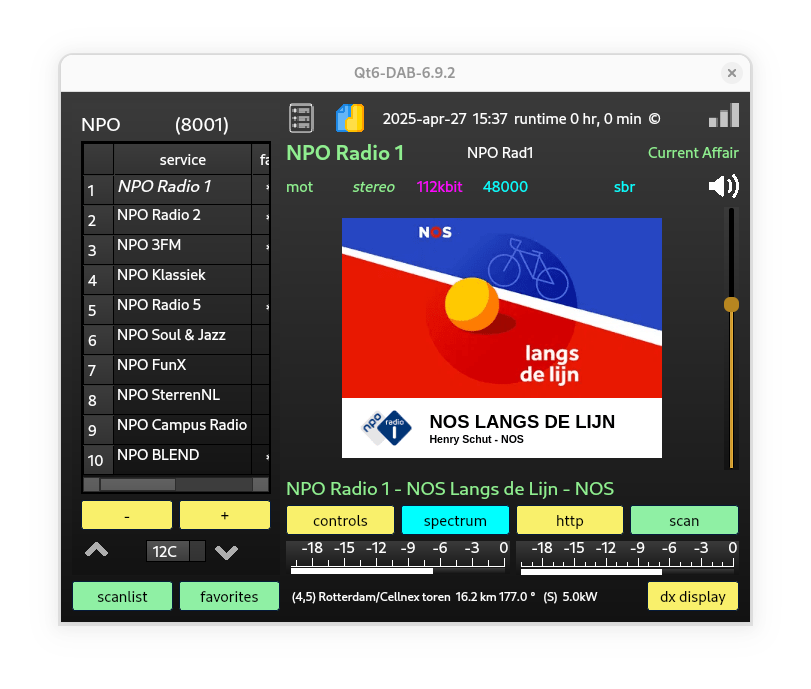
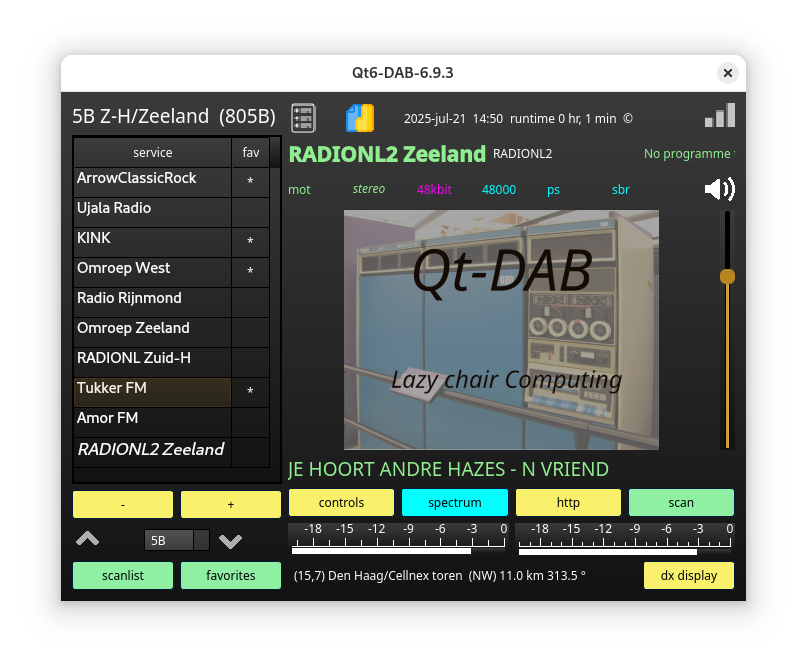
updated pictures

diff --git a/sources/devices/spy-server-8/spyserver-client-8.cpp b/sources/devices/spy-server-8/spyserver-client-8.cpp
@@ -75,6 +75,8 @@
 	settings. batchSize		= 4096;
 	settings. sample_bits		= 16;
 //
+	for (int i = 0; i < 256; i ++)
+	   convTable [i] = (-128.0 + i) / 128.0;
 	connect (spyServer_connect, &QPushButton::clicked,
                  this, &spyServer_client_8::wantConnect);
 #if QT_VERSION >= QT_VERSION_CHECK(6, 0, 2)
@@ -344,25 +346,6 @@ void    spyServer_client_8::handle_autogain       (int d) {
 void	spyServer_client_8::connect_on () {
 	onConnect. store (true);
 }
-
-static 
-float convTable [] = {
- -128 / 128.0 , -127 / 128.0 , -126 / 128.0 , -125 / 128.0 , -124 / 128.0 , -123 / 128.0 , -122 / 128.0 , -121 / 128.0 , -120 / 128.0 , -119 / 128.0 , -118 / 128.0 , -117 / 128.0 , -116 / 128.0 , -115 / 128.0 , -114 / 128.0 , -113 / 128.0 
-, -112 / 128.0 , -111 / 128.0 , -110 / 128.0 , -109 / 128.0 , -108 / 128.0 , -107 / 128.0 , -106 / 128.0 , -105 / 128.0 , -104 / 128.0 , -103 / 128.0 , -102 / 128.0 , -101 / 128.0 , -100 / 128.0 , -99 / 128.0 , -98 / 128.0 , -97 / 128.0 
-, -96 / 128.0 , -95 / 128.0 , -94 / 128.0 , -93 / 128.0 , -92 / 128.0 , -91 / 128.0 , -90 / 128.0 , -89 / 128.0 , -88 / 128.0 , -87 / 128.0 , -86 / 128.0 , -85 / 128.0 , -84 / 128.0 , -83 / 128.0 , -82 / 128.0 , -81 / 128.0 
-, -80 / 128.0 , -79 / 128.0 , -78 / 128.0 , -77 / 128.0 , -76 / 128.0 , -75 / 128.0 , -74 / 128.0 , -73 / 128.0 , -72 / 128.0 , -71 / 128.0 , -70 / 128.0 , -69 / 128.0 , -68 / 128.0 , -67 / 128.0 , -66 / 128.0 , -65 / 128.0 
-, -64 / 128.0 , -63 / 128.0 , -62 / 128.0 , -61 / 128.0 , -60 / 128.0 , -59 / 128.0 , -58 / 128.0 , -57 / 128.0 , -56 / 128.0 , -55 / 128.0 , -54 / 128.0 , -53 / 128.0 , -52 / 128.0 , -51 / 128.0 , -50 / 128.0 , -49 / 128.0 
-, -48 / 128.0 , -47 / 128.0 , -46 / 128.0 , -45 / 128.0 , -44 / 128.0 , -43 / 128.0 , -42 / 128.0 , -41 / 128.0 , -40 / 128.0 , -39 / 128.0 , -38 / 128.0 , -37 / 128.0 , -36 / 128.0 , -35 / 128.0 , -34 / 128.0 , -33 / 128.0 
-, -32 / 128.0 , -31 / 128.0 , -30 / 128.0 , -29 / 128.0 , -28 / 128.0 , -27 / 128.0 , -26 / 128.0 , -25 / 128.0 , -24 / 128.0 , -23 / 128.0 , -22 / 128.0 , -21 / 128.0 , -20 / 128.0 , -19 / 128.0 , -18 / 128.0 , -17 / 128.0 
-, -16 / 128.0 , -15 / 128.0 , -14 / 128.0 , -13 / 128.0 , -12 / 128.0 , -11 / 128.0 , -10 / 128.0 , -9 / 128.0 , -8 / 128.0 , -7 / 128.0 , -6 / 128.0 , -5 / 128.0 , -4 / 128.0 , -3 / 128.0 , -2 / 128.0 , -1 / 128.0 
-, 0 / 128.0 , 1 / 128.0 , 2 / 128.0 , 3 / 128.0 , 4 / 128.0 , 5 / 128.0 , 6 / 128.0 , 7 / 128.0 , 8 / 128.0 , 9 / 128.0 , 10 / 128.0 , 11 / 128.0 , 12 / 128.0 , 13 / 128.0 , 14 / 128.0 , 15 / 128.0 
-, 16 / 128.0 , 17 / 128.0 , 18 / 128.0 , 19 / 128.0 , 20 / 128.0 , 21 / 128.0 , 22 / 128.0 , 23 / 128.0 , 24 / 128.0 , 25 / 128.0 , 26 / 128.0 , 27 / 128.0 , 28 / 128.0 , 29 / 128.0 , 30 / 128.0 , 31 / 128.0 
-, 32 / 128.0 , 33 / 128.0 , 34 / 128.0 , 35 / 128.0 , 36 / 128.0 , 37 / 128.0 , 38 / 128.0 , 39 / 128.0 , 40 / 128.0 , 41 / 128.0 , 42 / 128.0 , 43 / 128.0 , 44 / 128.0 , 45 / 128.0 , 46 / 128.0 , 47 / 128.0 
-, 48 / 128.0 , 49 / 128.0 , 50 / 128.0 , 51 / 128.0 , 52 / 128.0 , 53 / 128.0 , 54 / 128.0 , 55 / 128.0 , 56 / 128.0 , 57 / 128.0 , 58 / 128.0 , 59 / 128.0 , 60 / 128.0 , 61 / 128.0 , 62 / 128.0 , 63 / 128.0 
-, 64 / 128.0 , 65 / 128.0 , 66 / 128.0 , 67 / 128.0 , 68 / 128.0 , 69 / 128.0 , 70 / 128.0 , 71 / 128.0 , 72 / 128.0 , 73 / 128.0 , 74 / 128.0 , 75 / 128.0 , 76 / 128.0 , 77 / 128.0 , 78 / 128.0 , 79 / 128.0 
-, 80 / 128.0 , 81 / 128.0 , 82 / 128.0 , 83 / 128.0 , 84 / 128.0 , 85 / 128.0 , 86 / 128.0 , 87 / 128.0 , 88 / 128.0 , 89 / 128.0 , 90 / 128.0 , 91 / 128.0 , 92 / 128.0 , 93 / 128.0 , 94 / 128.0 , 95 / 128.0 
-, 96 / 128.0 , 97 / 128.0 , 98 / 128.0 , 99 / 128.0 , 100 / 128.0 , 101 / 128.0 , 102 / 128.0 , 103 / 128.0 , 104 / 128.0 , 105 / 128.0 , 106 / 128.0 , 107 / 128.0 , 108 / 128.0 , 109 / 128.0 , 110 / 128.0 , 111 / 128.0 
-, 112 / 128.0 , 113 / 128.0 , 114 / 128.0 , 115 / 128.0 , 116 / 128.0 , 117 / 128.0 , 118 / 128.0 , 119 / 128.0 , 120 / 128.0 , 121 / 128.0 , 122 / 128.0 , 123 / 128.0 , 124 / 128.0 , 125 / 128.0 , 126 / 128.0 , 127 / 128.0 };
 
 void	spyServer_client_8::data_ready	() {
 uint8_t buffer_8 [settings. batchSize * 2];

diff --git a/sources/devices/rtlsdr-handler-linux/rtlsdr-handler.cpp b/sources/devices/rtlsdr-handler-linux/rtlsdr-handler.cpp
@@ -43,25 +43,6 @@
 #define	GETPROCADDRESS	dlsym
 #endif
 
-static 
-float convTable [] = {
- -128 / 128.0 , -127 / 128.0 , -126 / 128.0 , -125 / 128.0 , -124 / 128.0 , -123 / 128.0 , -122 / 128.0 , -121 / 128.0 , -120 / 128.0 , -119 / 128.0 , -118 / 128.0 , -117 / 128.0 , -116 / 128.0 , -115 / 128.0 , -114 / 128.0 , -113 / 128.0 
-, -112 / 128.0 , -111 / 128.0 , -110 / 128.0 , -109 / 128.0 , -108 / 128.0 , -107 / 128.0 , -106 / 128.0 , -105 / 128.0 , -104 / 128.0 , -103 / 128.0 , -102 / 128.0 , -101 / 128.0 , -100 / 128.0 , -99 / 128.0 , -98 / 128.0 , -97 / 128.0 
-, -96 / 128.0 , -95 / 128.0 , -94 / 128.0 , -93 / 128.0 , -92 / 128.0 , -91 / 128.0 , -90 / 128.0 , -89 / 128.0 , -88 / 128.0 , -87 / 128.0 , -86 / 128.0 , -85 / 128.0 , -84 / 128.0 , -83 / 128.0 , -82 / 128.0 , -81 / 128.0 
-, -80 / 128.0 , -79 / 128.0 , -78 / 128.0 , -77 / 128.0 , -76 / 128.0 , -75 / 128.0 , -74 / 128.0 , -73 / 128.0 , -72 / 128.0 , -71 / 128.0 , -70 / 128.0 , -69 / 128.0 , -68 / 128.0 , -67 / 128.0 , -66 / 128.0 , -65 / 128.0 
-, -64 / 128.0 , -63 / 128.0 , -62 / 128.0 , -61 / 128.0 , -60 / 128.0 , -59 / 128.0 , -58 / 128.0 , -57 / 128.0 , -56 / 128.0 , -55 / 128.0 , -54 / 128.0 , -53 / 128.0 , -52 / 128.0 , -51 / 128.0 , -50 / 128.0 , -49 / 128.0 
-, -48 / 128.0 , -47 / 128.0 , -46 / 128.0 , -45 / 128.0 , -44 / 128.0 , -43 / 128.0 , -42 / 128.0 , -41 / 128.0 , -40 / 128.0 , -39 / 128.0 , -38 / 128.0 , -37 / 128.0 , -36 / 128.0 , -35 / 128.0 , -34 / 128.0 , -33 / 128.0 
-, -32 / 128.0 , -31 / 128.0 , -30 / 128.0 , -29 / 128.0 , -28 / 128.0 , -27 / 128.0 , -26 / 128.0 , -25 / 128.0 , -24 / 128.0 , -23 / 128.0 , -22 / 128.0 , -21 / 128.0 , -20 / 128.0 , -19 / 128.0 , -18 / 128.0 , -17 / 128.0 
-, -16 / 128.0 , -15 / 128.0 , -14 / 128.0 , -13 / 128.0 , -12 / 128.0 , -11 / 128.0 , -10 / 128.0 , -9 / 128.0 , -8 / 128.0 , -7 / 128.0 , -6 / 128.0 , -5 / 128.0 , -4 / 128.0 , -3 / 128.0 , -2 / 128.0 , -1 / 128.0 
-, 0 / 128.0 , 1 / 128.0 , 2 / 128.0 , 3 / 128.0 , 4 / 128.0 , 5 / 128.0 , 6 / 128.0 , 7 / 128.0 , 8 / 128.0 , 9 / 128.0 , 10 / 128.0 , 11 / 128.0 , 12 / 128.0 , 13 / 128.0 , 14 / 128.0 , 15 / 128.0 
-, 16 / 128.0 , 17 / 128.0 , 18 / 128.0 , 19 / 128.0 , 20 / 128.0 , 21 / 128.0 , 22 / 128.0 , 23 / 128.0 , 24 / 128.0 , 25 / 128.0 , 26 / 128.0 , 27 / 128.0 , 28 / 128.0 , 29 / 128.0 , 30 / 128.0 , 31 / 128.0 
-, 32 / 128.0 , 33 / 128.0 , 34 / 128.0 , 35 / 128.0 , 36 / 128.0 , 37 / 128.0 , 38 / 128.0 , 39 / 128.0 , 40 / 128.0 , 41 / 128.0 , 42 / 128.0 , 43 / 128.0 , 44 / 128.0 , 45 / 128.0 , 46 / 128.0 , 47 / 128.0 
-, 48 / 128.0 , 49 / 128.0 , 50 / 128.0 , 51 / 128.0 , 52 / 128.0 , 53 / 128.0 , 54 / 128.0 , 55 / 128.0 , 56 / 128.0 , 57 / 128.0 , 58 / 128.0 , 59 / 128.0 , 60 / 128.0 , 61 / 128.0 , 62 / 128.0 , 63 / 128.0 
-, 64 / 128.0 , 65 / 128.0 , 66 / 128.0 , 67 / 128.0 , 68 / 128.0 , 69 / 128.0 , 70 / 128.0 , 71 / 128.0 , 72 / 128.0 , 73 / 128.0 , 74 / 128.0 , 75 / 128.0 , 76 / 128.0 , 77 / 128.0 , 78 / 128.0 , 79 / 128.0 
-, 80 / 128.0 , 81 / 128.0 , 82 / 128.0 , 83 / 128.0 , 84 / 128.0 , 85 / 128.0 , 86 / 128.0 , 87 / 128.0 , 88 / 128.0 , 89 / 128.0 , 90 / 128.0 , 91 / 128.0 , 92 / 128.0 , 93 / 128.0 , 94 / 128.0 , 95 / 128.0 
-, 96 / 128.0 , 97 / 128.0 , 98 / 128.0 , 99 / 128.0 , 100 / 128.0 , 101 / 128.0 , 102 / 128.0 , 103 / 128.0 , 104 / 128.0 , 105 / 128.0 , 106 / 128.0 , 107 / 128.0 , 108 / 128.0 , 109 / 128.0 , 110 / 128.0 , 111 / 128.0 
-, 112 / 128.0 , 113 / 128.0 , 114 / 128.0 , 115 / 128.0 , 116 / 128.0 , 117 / 128.0 , 118 / 128.0 , 119 / 128.0 , 120 / 128.0 , 121 / 128.0 , 122 / 128.0 , 123 / 128.0 , 124 / 128.0 , 125 / 128.0 , 126 / 128.0 , 127 / 128.0 };
-
 //
 //	Our wrapper is a simple classs
 	rtlsdrHandler::rtlsdrHandler (QSettings *s,
@@ -193,6 +174,8 @@ char	manufac [256], product [256], serial [256];
 	                         gainControl -> currentText (). toInt ());
 	set_ppmCorrection	(ppm_correction -> value());
 
+	for (int i = 0; i < 256; i ++)
+	   convTable [i] = (-128.0 + i) / 128.0;
 //	and attach the buttons/sliders to the actions
 	connect (gainControl,
 #if QT_VERSION >= QT_VERSION_CHECK(6, 0, 2)

diff --git a/sources/main/radio.cpp b/sources/main/radio.cpp
@@ -67,8 +67,6 @@
 #include	<QScreen>
 #include	<QDomElement>
 
-static float peakLeftDamped = 0;
-static float peakRightDamped = 0;
 #if defined (__MINGW32__) || defined (_WIN32)
 #include <windows.h>
 __int64 FileTimeToInt64 (FILETIME & ft) {
@@ -328,6 +326,10 @@ QString h;
 	else
 	   theNewDisplay. hide ();
 
+	peakLeftDamped	= 0;
+	peakRightDamped = 0;
+	audioTeller	= 0;	// counting audio frames
+	pauzeSlideTeller	= 0; // counting pause slides
 	labelStyle	= value_s (dabSettings_p, DAB_GENERAL, LABEL_COLOR,
 	                                                     LABEL_STYLE);
 	QFont font	= serviceLabel -> font ();
@@ -1176,10 +1178,9 @@ void	RadioInterface::newAudio	(int amount, int rate,
 	if (!running. load ())
 	   return;
 
-static int teller	= 0;
-	teller ++;
-	if (teller > 10) {
-	   teller = 0;
+	audioTeller ++;
+	if (audioTeller > 10) {
+	   audioTeller = 0;
 	   if (!techWindow_p -> isHidden ())
 	      techWindow_p	-> showRate (rate, ps, sbr);
 	   audiorateLabel	-> setStyleSheet ("color:cyan");
@@ -1309,8 +1310,9 @@ void	RadioInterface::TerminateProcess () {
 	stopFrameDumping	();
 	stopSourceDumping	();
 	stopAudioDumping	();
-	theOFDMHandler		-> stop ();
-	if (soundOut_p)
+	if (!theOFDMHandler. isNull ())
+	   theOFDMHandler		-> stop ();
+	if (soundOut_p != nullptr)
 	   delete soundOut_p;
 	theLogger. log (logger::LOG_RADIO_STOPS);
 	usleep (1000);		// pending signals
@@ -3591,14 +3593,13 @@ int h   = 3 * w / 4;
 
 void	RadioInterface::show_pauzeSlide () {
 QPixmap p;
-static int teller	= 0;
 QString slideName	= ":res/radio-pictures/pauze-slide-%1.png";
 	pauzeTimer. stop ();
 //	int nr		= rand () % 11;
-	slideName	= slideName. arg (teller);
+	slideName	= slideName. arg (pauzeSlideTeller);
 	if (p. load (slideName, "png")) {
 	QString tooltipText;
-	   switch (teller) {
+	   switch (pauzeSlideTeller) {
 	      case 2:
 	         tooltipText = "homebrew 60-ies";
 	         break;
@@ -3630,7 +3631,7 @@ QString slideName	= ":res/radio-pictures/pauze-slide-%1.png";
 	}
 	  
 	pauzeTimer. start (1 * 30 * 1000);
-	teller = (teller + 1) % 11;
+	pauzeSlideTeller = (pauzeSlideTeller + 1) % 11;
 }
 //////////////////////////////////////////////////////////////////////////
 //	Experimental: handling eti

diff --git a/sources/devices/sdrplay-handler-v3/RspDuo-handler.cpp b/sources/devices/sdrplay-handler-v3/RspDuo-handler.cpp
@@ -95,7 +95,7 @@ bool	RspDuo_handler::restart (int freq) {
 sdrplay_api_ErrT        err;
 	
 	chParams -> tunerParams. rfFreq. rfHz = (float)freq;
-	err =parent ->  sdrplay_api_Update (chosenDevice -> dev,
+	err = parent ->  sdrplay_api_Update (chosenDevice -> dev,
 	                                    chosenDevice -> tuner,
                                             sdrplay_api_Update_Tuner_Frf,
                                             sdrplay_api_Update_Ext1_None);
@@ -161,13 +161,39 @@ bool	RspDuo_handler::setTuner	(int tuner) {
 	if (tuner == currentTuner)
 	   return true;;
 
+	fprintf (stderr, "setTuner to %d (from %d)\n", tuner, currentTuner);
 	sdrplay_api_ErrT res =
 	           parent -> sdrplay_api_SwapRspDuoActiveTuner (
 	                          chosenDevice ->  dev,
 	                          &chosenDevice -> tuner, 
-	                          sdrplay_api_RspDuo_AMPORT_1);
+	                          sdrplay_api_RspDuo_AMPORT_2);
 	if (res != sdrplay_api_Success) {
-	   fprintf (stderr, "Swapping tuner failed\n");
+	   QString error = "";
+	   switch (res) {
+	      case sdrplay_api_Fail:
+	         error = "Command failed";
+	         break;
+	      case sdrplay_api_InvalidParam:
+	         error = "NULL pointer or invalid operating mode";
+	         break;
+	      case sdrplay_api_OutOfRange:
+	         error = "One or more parameters are set incorrectly";
+	         break;
+	      case sdrplay_api_HwError:
+	         error = "Hw error occurred during tuner initialization";
+	         break;
+	      case sdrplay_api_RfUpdateError:
+	         error = "Failed to update Rf frequency";
+	         break;
+	      case sdrplay_api_ServiceNotResponding:
+	         error = "Communication with the service is broken";
+	         break;
+	      default:
+	         error = "Unknown error";
+	         break;
+	   }
+	   fprintf (stderr, "tuner switch error %s\n", 
+	                             error. toLatin1 (). data ());
 	}
 	else {
 	   fprintf (stderr, "Swapping tuner success\n");

diff --git a/sources/devices/rtlsdr-handler-linux/rtlsdr-handler.h b/sources/devices/rtlsdr-handler-linux/rtlsdr-handler.h
@@ -50,7 +50,7 @@ class	logger;
 typedef	struct rtlsdr_dev rtlsdr_dev_t;
 extern "C"  {
 typedef	void (*rtlsdr_read_async_cb_t) (uint8_t *buf, uint32_t len, void *ctx);
-typedef	 int (*  pfnrtlsdr_open )(rtlsdr_dev_t **, uint32_t);
+typedef int (*  pfnrtlsdr_open )(rtlsdr_dev_t **, uint32_t);
 typedef	int (*  pfnrtlsdr_close) (rtlsdr_dev_t *);
 typedef int (*  pfnrtlsdr_get_usb_strings) (rtlsdr_dev_t *, char *, char *, char *);
 typedef	int (*  pfnrtlsdr_set_center_freq) (rtlsdr_dev_t *, uint32_t);
@@ -78,8 +78,8 @@ typedef	int (* pfnrtlsdr_set_freq_correction)(rtlsdr_dev_t *, int);
 typedef	char *(* pfnrtlsdr_get_device_name)(int);
 }
 //	This class is a simple wrapper around the
-//	rtlsdr library that is read in  as dll (or .so file in linux)
-//	It does not do any processing
+//	rtlsdr library, the relevant functions of it
+//	are read in  from the dll (or .so file in linux)
 class	rtlsdrHandler final: 
 	               public deviceHandler, public  Ui_dabstickWidget {
 Q_OBJECT
@@ -133,6 +133,7 @@ private:
 	LowPassFIR	theFilter;
 	int		currentDepth;
 
+	float		convTable	[256];
 	void		reportOverflow		(bool);
 	float		m_dcI;
 	float		m_dcQ;

diff --git a/sources/protection/uep-protection.cpp b/sources/protection/uep-protection.cpp
@@ -38,16 +38,16 @@ struct protectionProfile {
 	int16_t	PI3;
 	int16_t	PI4;
 } profileTable [] = {
-	{32,	5,	3, 4, 17, 0,	5, 3, 2, -1},
-	{32,	4,	3, 3, 18, 0,	11, 6, 5, -1},
-	{32,	3,	3, 4, 14, 3,	15, 9, 6, 8},
-	{32,	2,	3, 4, 14, 3,	22, 13, 8, 13},
+	{32,	5,	3, 4, 17, 0,	 5,  3,  2, -1},
+	{32,	4,	3, 3, 18, 0,	11,  6,  5, -1},
+	{32,	3,	3, 4, 14, 3,	15,  9,  6,  8},
+	{32,	2,	3, 4, 14, 3,	22, 13,  8, 13},
 	{32,	1,	3, 5, 13, 3,	24, 17, 12, 17},
 
-	{48,	5,	4, 3, 26, 3,	5, 4, 2, 3},
-	{48,	4,	3, 4, 26, 3,	9, 6, 4, 6},
-	{48,	3,	3, 4, 26, 3,	15, 10, 6, 9},
-	{48,	2,	3, 4, 26, 3,	24, 14, 8, 15},
+	{48,	5,	4, 3, 26, 3,	 5,  4,  2,  3},
+	{48,	4,	3, 4, 26, 3,	 9,  6,  4,  6},
+	{48,	3,	3, 4, 26, 3,	15, 10,  6,  9},
+	{48,	2,	3, 4, 26, 3,	24, 14,  8, 15},
 	{48,	1,	3, 5, 25, 3,	24, 18, 13, 18},
 //
 //	Thanks to Pr2 who discovered that the tables for 56 were missing
@@ -134,7 +134,6 @@ int16_t	findIndex (int16_t bitRate, int16_t protLevel) {
 
 /**
   *	the table is based on chapter 11 of the DAB standard.
-  *
   *	\brief uep_deconvolve
   *
   *	The bitRate and the protectionLevel determine the 

diff --git a/sources/frontend/fic-handler.cpp b/sources/frontend/fic-handler.cpp
@@ -42,7 +42,7 @@
 /**
   *	\class ficHandler
   * 	We get in - through process_ficBlock - the FIC data
-  * 	in units of 768 bits.
+  * 	in units of 768 bits (i.e. FIC_BLOCKSIZE / 4)
   * 	We follow the standard and apply convolution decoding and
   * 	puncturing.
   *	The data is sent through to the fib processor
@@ -65,7 +65,7 @@ int16_t	shiftRegister [9] = {1, 1, 1, 1, 1, 1, 1, 1, 1};
 	ficErrors	= 0;
 	ficBits		= 0;
 
-	for (int i = 0; i < 768; i ++) {
+	for (int i = 0; i < FIC_BLOCKSIZE / 4; i ++) {
 	   PRBS [i] = shiftRegister [8] ^ shiftRegister [4];
 	   for (int j = 8; j > 0; j --)
 	      shiftRegister [j] = shiftRegister [j - 1];
@@ -234,7 +234,7 @@ int16_t	inputCount	= 0;
 	   bitBuffer_out [i] ^= PRBS [i];
 
 	for (int i = 0; i < FIC_BLOCKSIZE / 4; i ++)
-	   fibBits [ficno * 768 + i] = bitBuffer_out [i];
+	   fibBits [ficno * FIC_BLOCKSIZE / 4 + i] = bitBuffer_out [i];
 /**
   *	each of the fib blocks is protected by a crc
   *	(we know that there are three fib blocks each time we are here)

diff --git a/sources/devices/rtlsdr-handler-common/rtl-dongleselect.cpp b/sources/devices/rtlsdr-handler-common/rtl-dongleselect.cpp
@@ -40,8 +40,6 @@
 	Dongles = QStringList();
 	dongleList. setStringList (Dongles);
 	selectorDisplay	-> setModel (&dongleList);
-	connect (selectorDisplay, SIGNAL (clicked (QModelIndex)),
-	         this, SLOT (selectDongle (QModelIndex)));
 	connect (selectorDisplay, &QListView::clicked,
 	         this, rtl_dongeselect::selectDongle);
 	selectedItem	= -1;

diff --git a/sources/main/radio.h b/sources/main/radio.h
@@ -345,6 +345,10 @@ private:
 	size_t			previous_idle_time;
 	size_t			previous_total_time;
 
+	float			peakLeftDamped;
+	float			peakRightDamped;
+	int			audioTeller;
+	int			pauzeSlideTeller;
 	QPixmap			fetchAnnouncement (int id);
 
 	QString			convertTime		(int, int, int, int, int);

diff --git a/sources/devices/spy-server-16/spyserver-client.cpp b/sources/devices/spy-server-16/spyserver-client.cpp
@@ -187,7 +187,7 @@ QString theAddress	= QHostAddress (s). toString ();
 	   nameOfDevice	-> setText ("RTLSDR");
 	}
 	else {
-	   theState -> setText ("not supported device");
+	   theState -> setText ("unsupported device");
 	   return;
 	}
 

diff --git a/sources/devices/spy-server-8/spyserver-client-8.h b/sources/devices/spy-server-8/spyserver-client-8.h
@@ -67,6 +67,7 @@ struct {
 	int		auto_gain;
 } settings;
 
+	float		convTable [256];
 private slots:
 	void		setConnection	();
 	void		wantConnect	();

diff --git a/README.md b/README.md
@@ -4,19 +4,6 @@
 
 ![6.9](/res/read_me/front-picture.png?raw=true)
 
--------------------------------------------------------------------------
-Restructured source tree
---------------------------------------------------------------------------
-
-Note that the sourcetree is now restructured. All sources are now
-grouped in the directory sources. That one contains three main subdirectories
-
- * main for the main program (as the name suggests)
- * frontend for converting input samples into sequences of softbits (-127 .. 127)
- * backend for the actual decoding of the softbits to either audio, data or both
-
- Furthermore there are a few other subdirectories with support functions
-
 --------------------------------------------------------------------------
 About Qt-DAB
 -------------------------------------------------------------------------
@@ -65,6 +52,11 @@ Thanks to Richard Huber, *Qt-DAB* can be compiled on the Mac as well.
 is always visible. This main widget contains selectors
 for controlling the visibility of (the) other widgets.
 
+There is - on the surface - not much difference betweem the 6.9.2 and
+6.9.3 version. An error that sometime caused problems with a data service
+(insufficent data) to run.
+Furthermore, the sourcetree was changed completely.
+
 Features
 =================================================================
 
@@ -98,7 +90,7 @@ The *main widget* (see picture) of Qt-DAB (always visible), contains settings fo
 It shows - left half - a list of services (either from the currently selected channel or from the favourites), seleting a service is just by clicking on the name.
 On the right half of the widget it shows the dynamic label, and the slides - if transmitted as part of the service - or a series of default slides.
 
-* touching the *ensemble name* (NPO (8001) in the picture) makes the
+* touching the *ensemble name* (5B Z-H/ZEELAND (805B) in the picture) makes the
 *content table*, i.e. an overview of the content of the ensemble, visible with the possibility of storing the data in a ".csv" format. If  the data is visible, touching will hide it;
  * touching the small icon left on the top of the right half
  will show (or hide) the *technical widget*,
@@ -108,7 +100,7 @@ a spectrum of the audio of the selected service;
  * touching the icon showing a *speaker* controls muting the signal and shows
 whether or not a signal should be audible.
  * touching the *copyright symbol* shows (or, if visible, hides) a small widget with some acknowledgements for using external libraries;
- * touching with the *right hand mouse button* the text of the dynamic label (NPO Radio 1- NOS Langs de lijn - NOS) shows a small menu to put the text on the clipboard;
+ * touching with the *right hand mouse button* the text of the dynamic label (JE HOORT ANDRE HAZES - N VRIEND) a small menu shows to put the text on the clipboard;
  * the button labeled *scan* controls the visibility of a the scan handler widget;
  * the button labeled *http* controls the http handler with which a map )with the transmitters) will be shown;
  * the button labeled *spectrum* controls the visibility of the spectrum widget, a widget that contains views on and information of the DAB signal itself;
